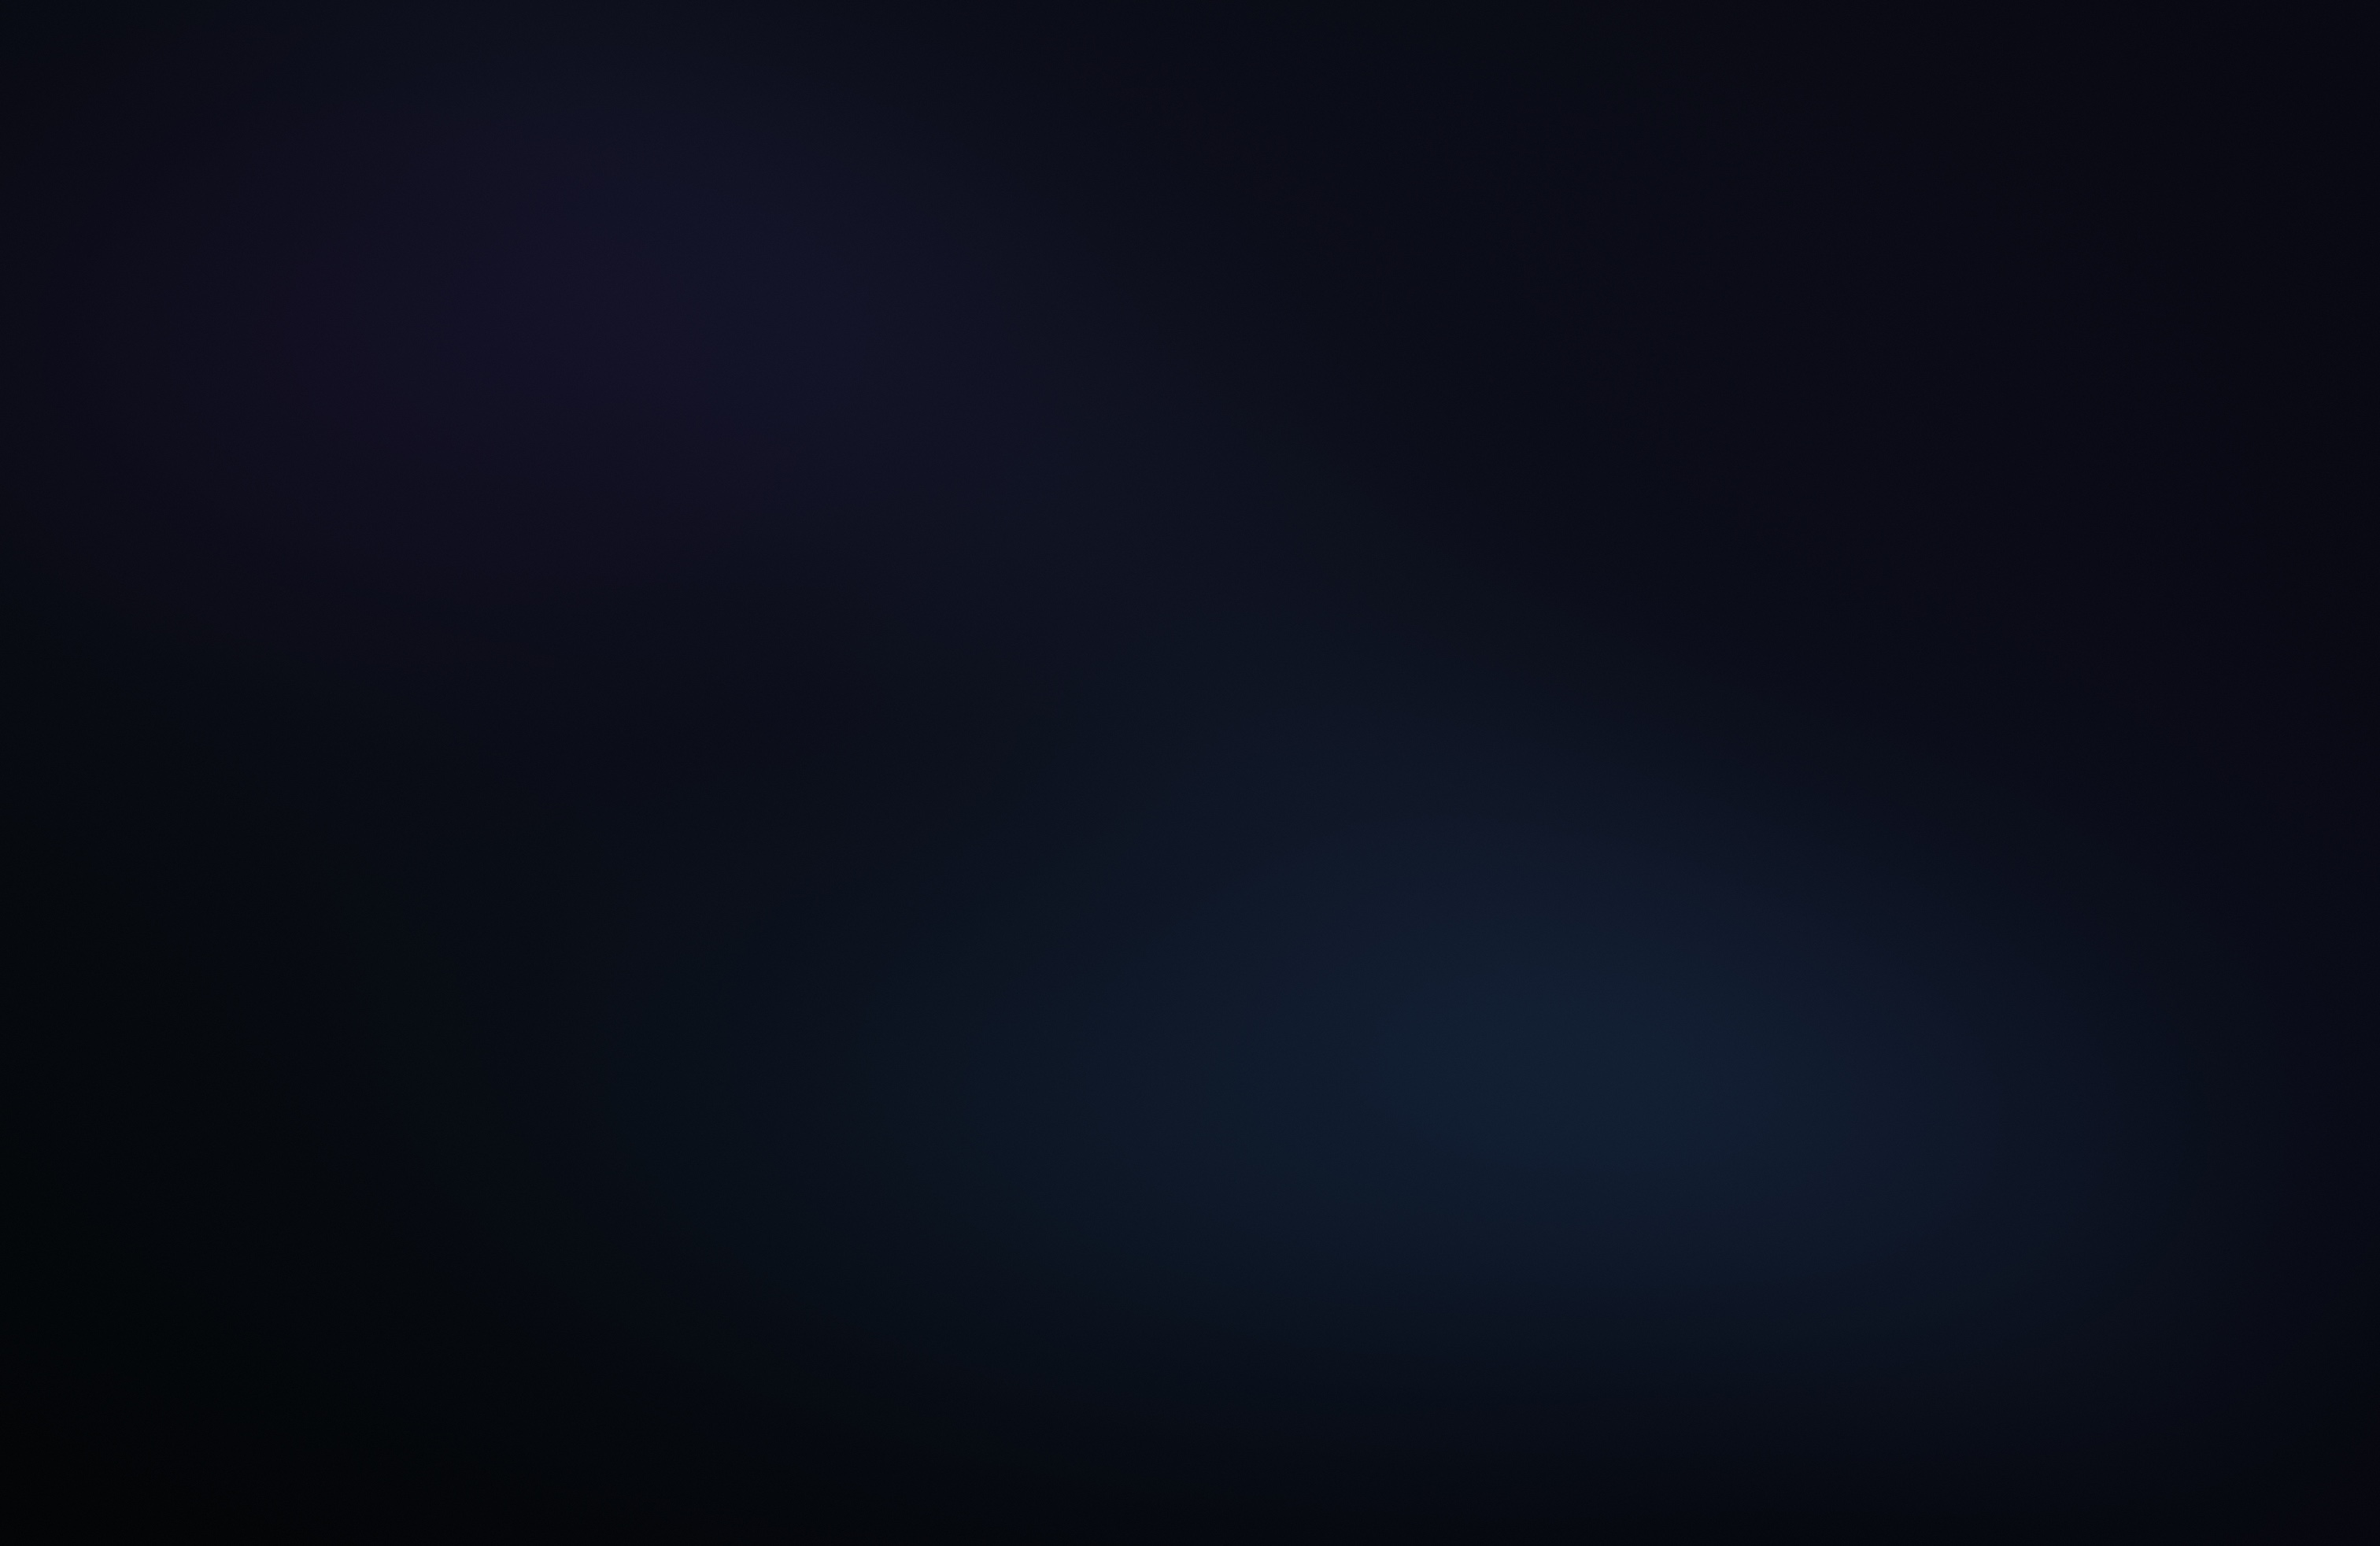
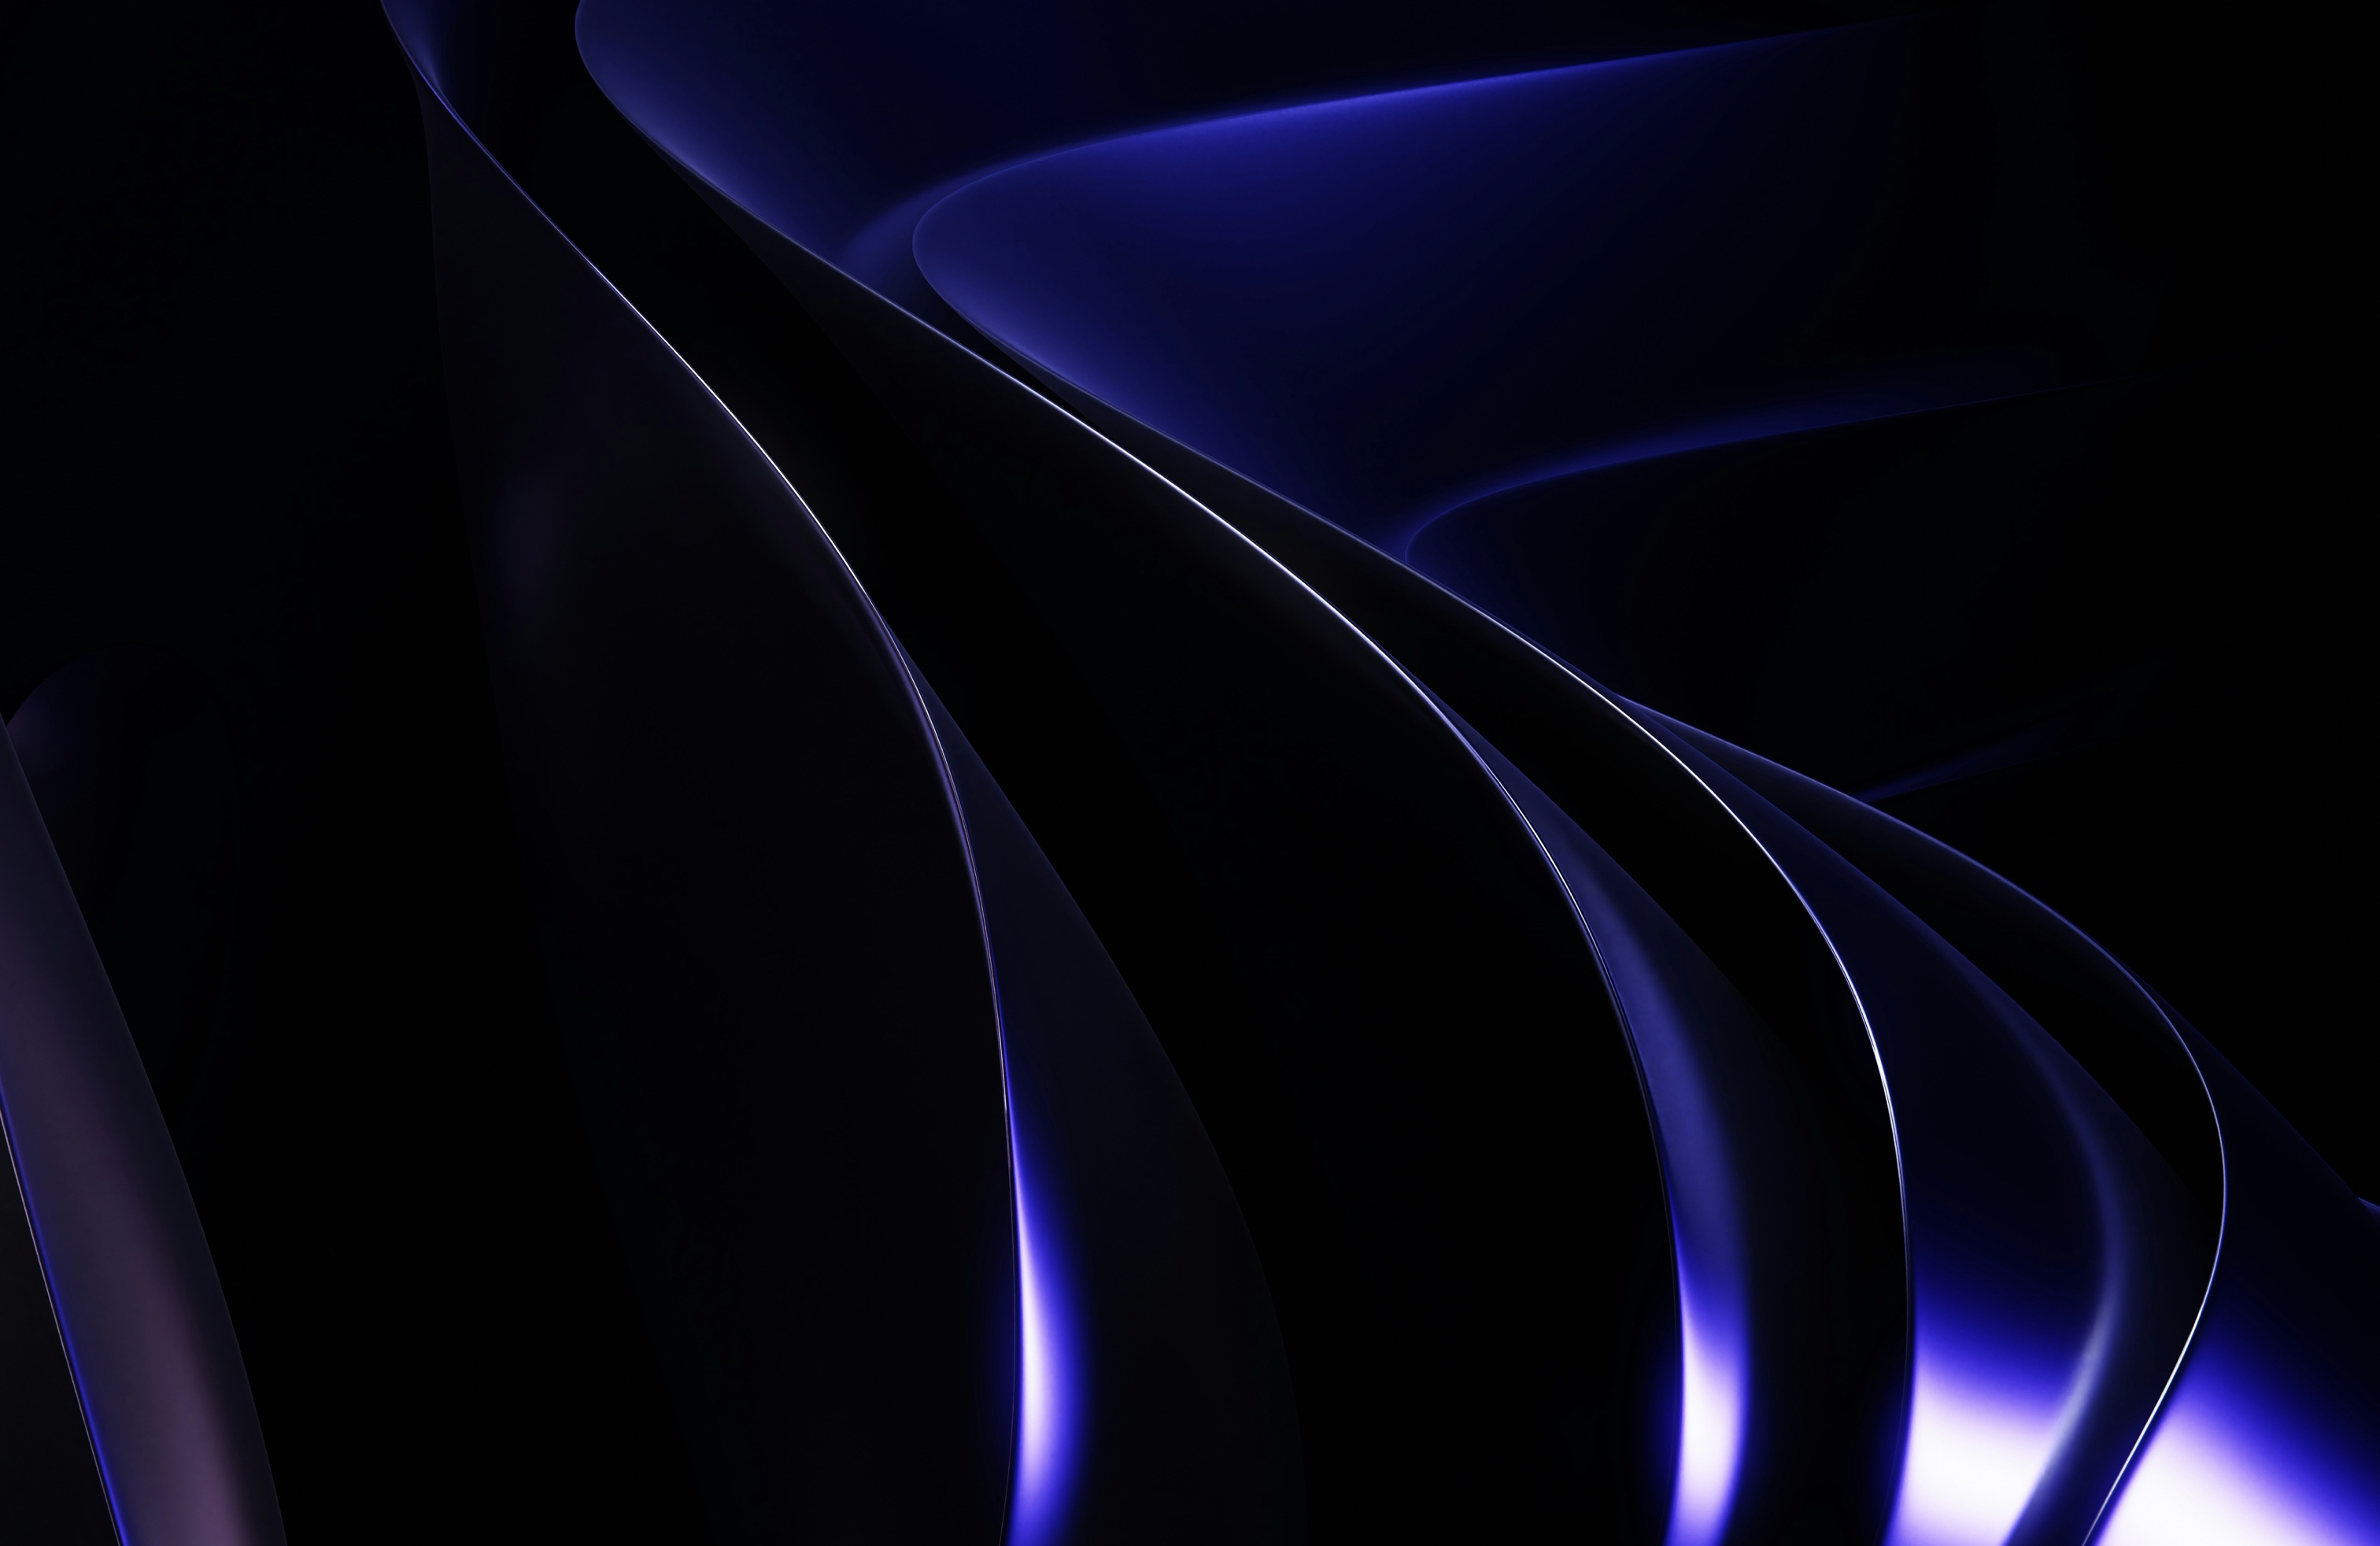
Use Unsplash dark native wallpaper

diff --git a/wallpaper.SOURCE.md b/wallpaper.SOURCE.md
@@ -1,0 +1,10 @@
+# Wallpaper Source
+
+- File: `wallpaper.jpg`
+- Source: Unsplash, photo `IL6u91RSndg`
+- URL: https://unsplash.com/photos/a-blue-and-black-abstract-background-with-curves-IL6u91RSndg
+- Author: Hassaan Here
+- License: Unsplash License
+- Downloaded: 2026-06-27
+- Local processing: cropped from the original `8400x5600` image and resized to
+  the built-in MacBook display native resolution, `3024x1964`.